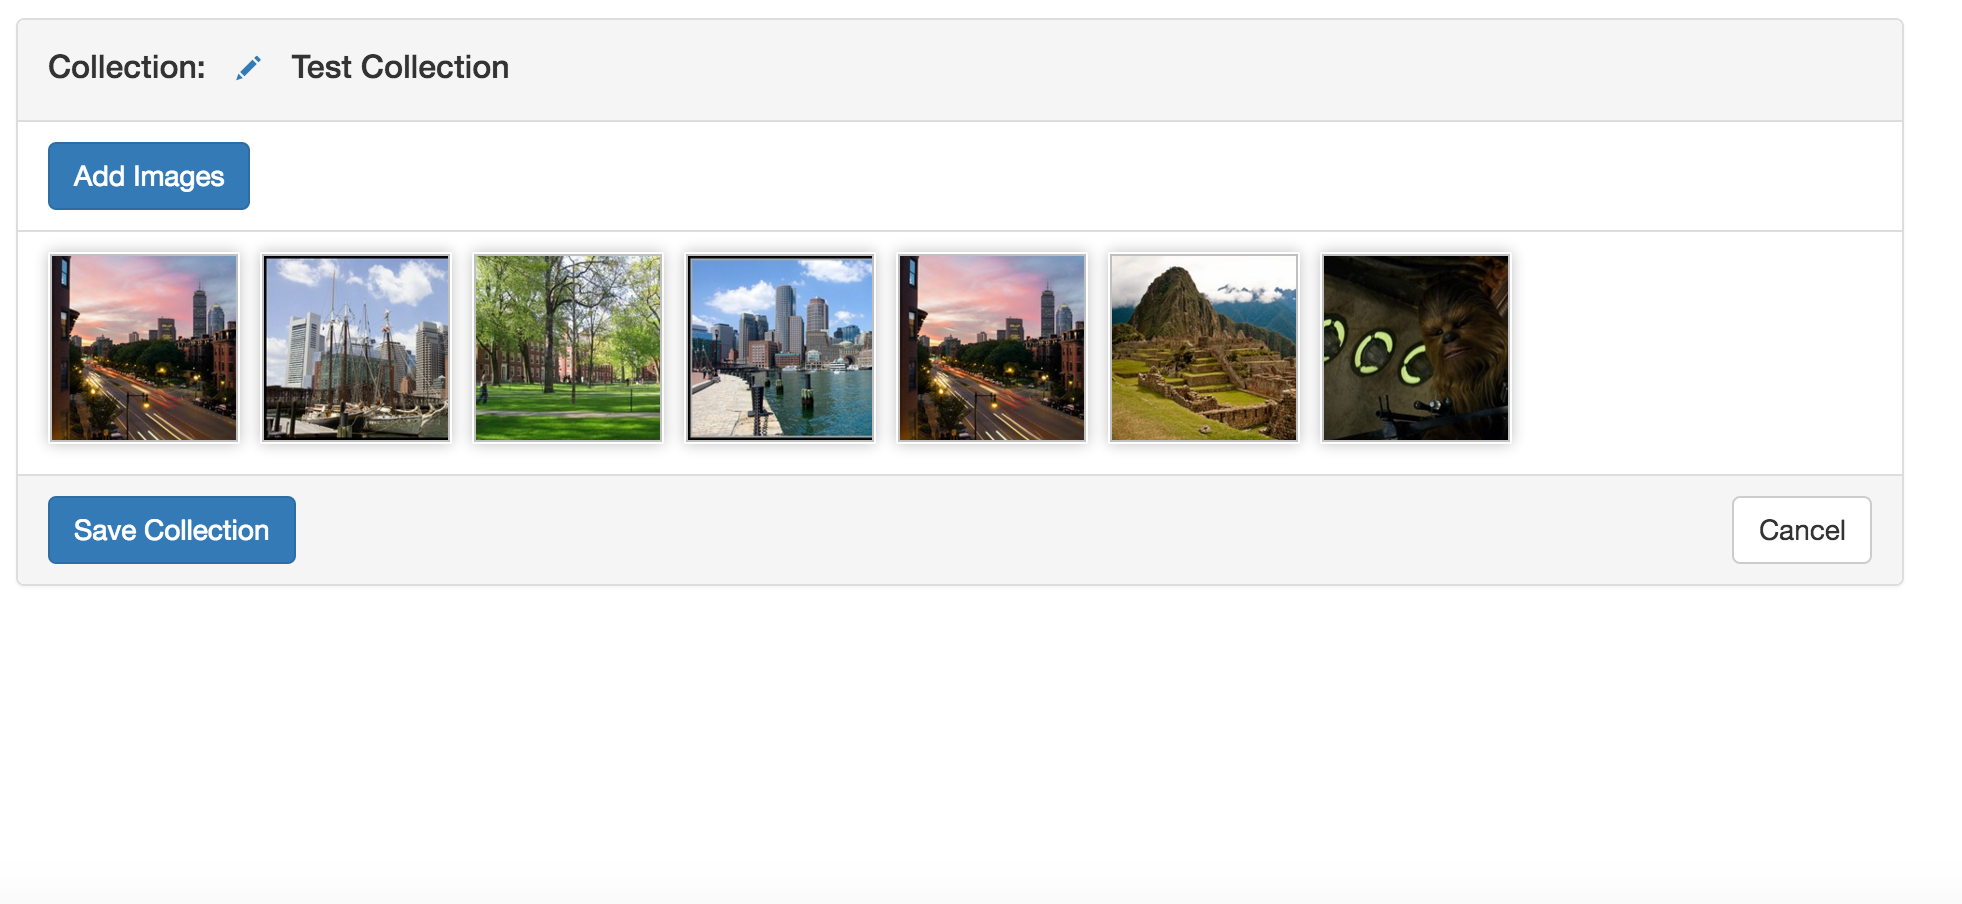
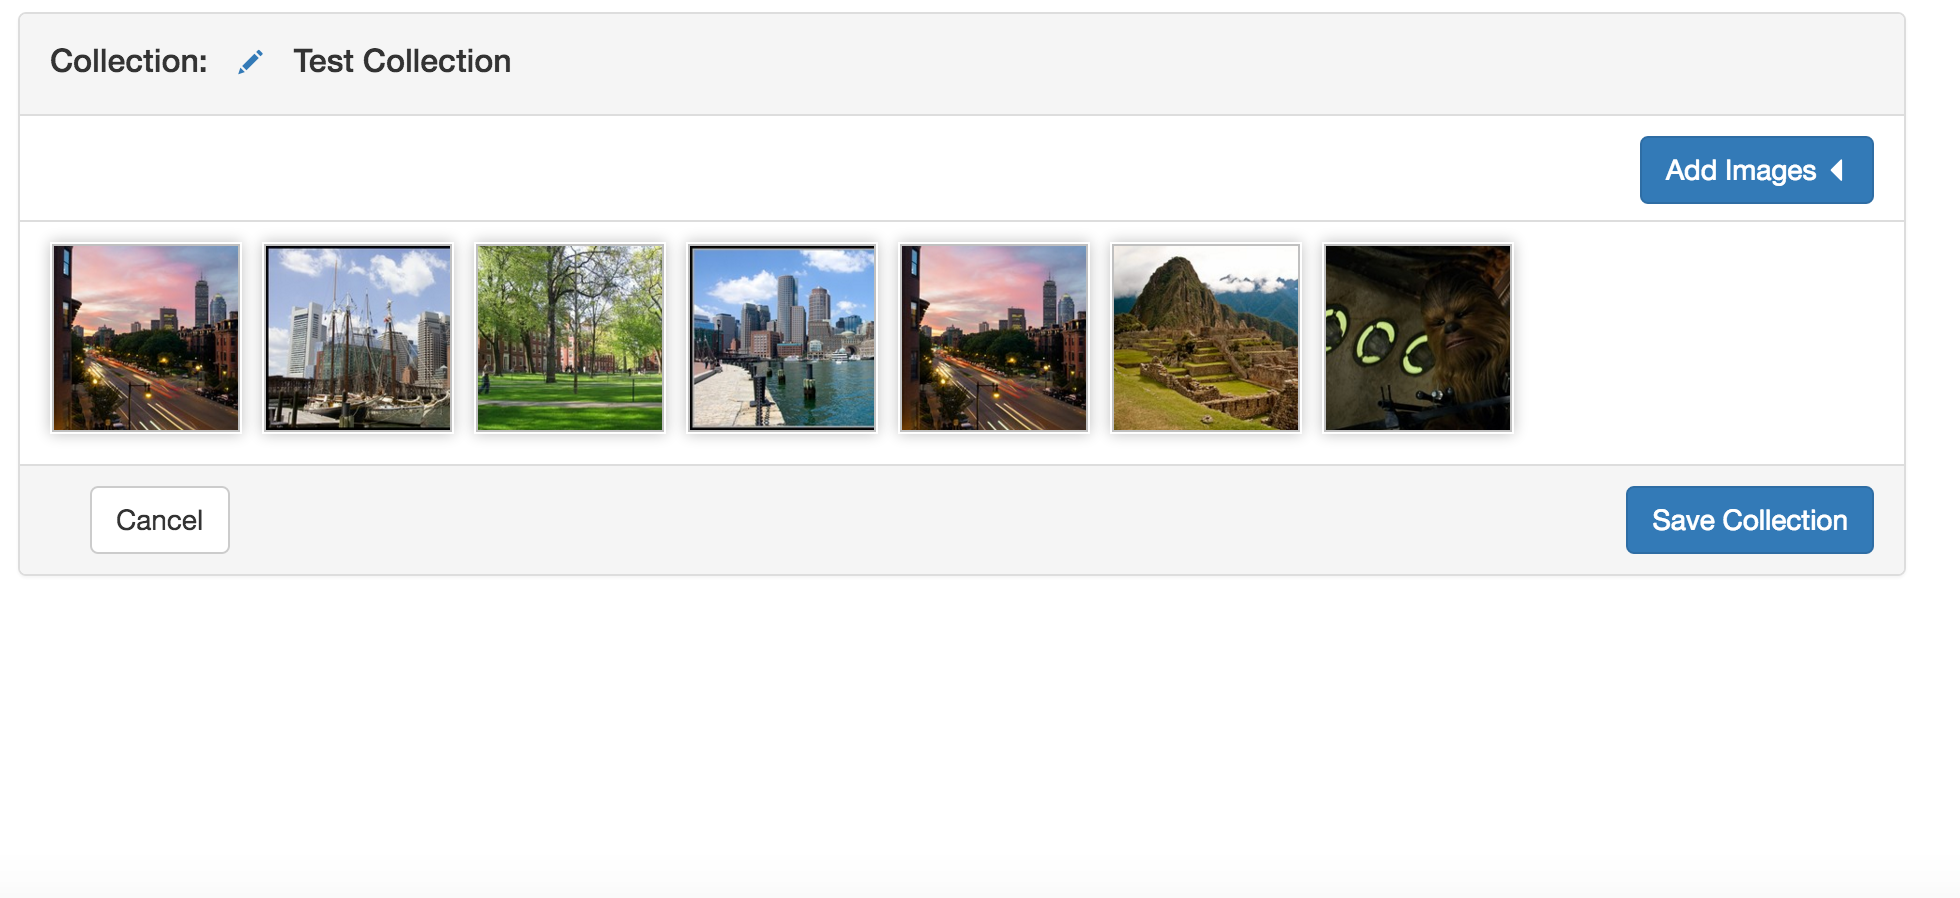
Media Manager Collection Edit, proposed screen capture and UI code

diff --git a/Media_Manager_Collection_Edit/index.html b/Media_Manager_Collection_Edit/index.html
@@ -8,10 +8,12 @@
           </h3>
         </div>
         <ul class="list-group">
-          <li class="list-group-item">
-            <button type="button" class="btn btn-primary" ng-click="wc.hideLibrary = !wc.hideLibrary">
+<!-- UI comment - For some reason, just using "pull-right" cause half of the button to be hidden behind the next panel row. Adding padding via an inline style resolves this, although I know I may need to find a better solution  -->
+          <li class="list-group-item" style="padding-bottom: 3em">
+<!-- UI comment - Moving the button to the right, adding to the button a similar triangle to the drop down -->
+            <button type="button" class="btn btn-primary pull-right" ng-click="wc.hideLibrary = !wc.hideLibrary">
               <!-- ngIf: wc.hideLibrary --><span ng-if="wc.hideLibrary" class="ng-scope">Add Images</span><!-- end ngIf: wc.hideLibrary -->
-              <!-- ngIf: !wc.hideLibrary -->
+              <!-- ngIf: !wc.hideLibrary --><small><span class="glyphicon glyphicon-triangle-left" aria-hidden="true"></span></small>
             </button>
           </li>
           <li class="list-group-item">
@@ -45,8 +47,9 @@
             </ul>
           </li>
         </ul>
+<!-- UI comment - Swapping the buttons -->
         <div class="panel-footer">
-          <input type="button" class="btn btn-primary" value="Save Collection" ng-click="wc.saveCollection()" ng-disabled="wc.isSavingCollection.status">
-          <input type="button" class="btn btn-default pull-right" style="margin-left: 20px;" value="Cancel" ng-click="wc.cancelCollection()">
+          <input type="button" class="btn btn-primary pull-right" value="Save Collection" ng-click="wc.saveCollection()" ng-disabled="wc.isSavingCollection.status">
+          <input type="button" class="btn btn-default" style="margin-left: 20px;" value="Cancel" ng-click="wc.cancelCollection()">
         </div>
       </div>
